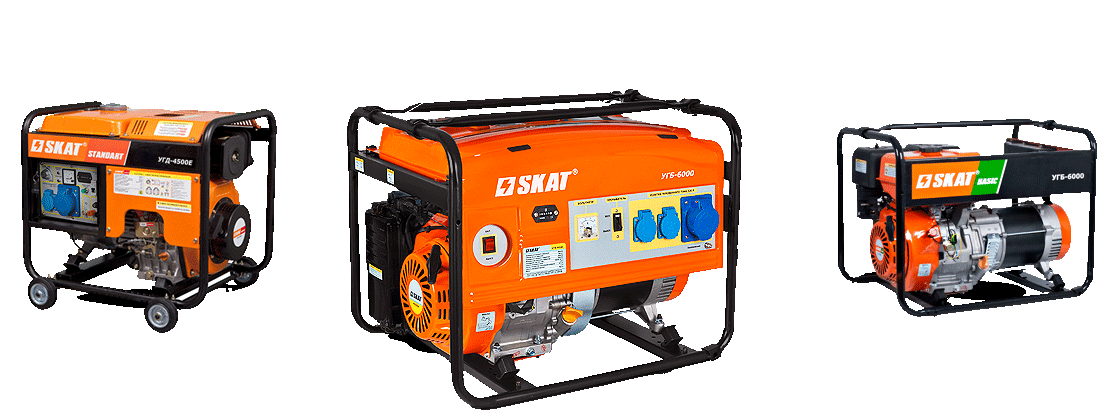
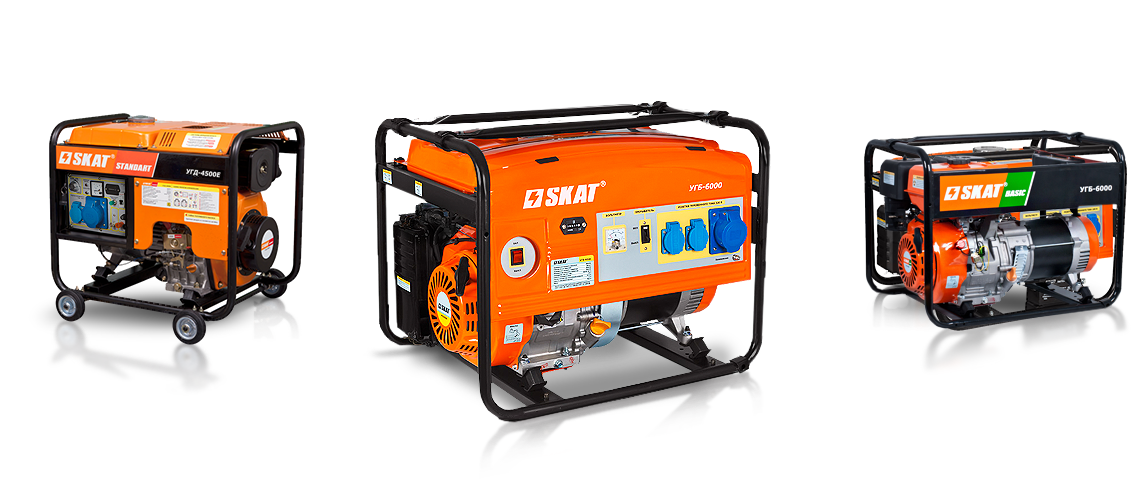
low

diff --git a/css/style.css b/css/style.css
@@ -193,7 +193,7 @@ orange{
 #top{
 	/*min-width: 1115px;*/
 	height: 1027px;
-	/*background-color: #F4F4F4;*/
+	background-color: #F4F4F4;
 	background-image: url("../img/bg-top.png");
 	background-position: center top;
 	background-repeat: no-repeat;
@@ -205,6 +205,7 @@ orange{
 	width: 1172px;
 	margin-right: auto;
 	margin-left: auto;
+	background-image: url("../img/bg-top.png");
 }
 
 .logo{
@@ -255,8 +256,8 @@ orange{
 }
 
 .gen{
-	width: 1105px;
-	height: 411px;
+	width: 1133px;
+	height: 489px;
 	margin-left: auto;
 	margin-right: auto;
 	background-image: url("../img/generators.png");

diff --git a/index.php b/index.php
@@ -25,32 +25,31 @@
 
 <body>
 	<div id="top">
-		<div class="top-main">
-			<div style="height: 120px;">
-				<a href="/">
-					<div class="logo"></div>
-				</a>
-				
-				<div class="phone">
-					<b>8-800-555-36-75</b>
-					<a href="http://www.skatpower.ru/">http://wwww.skatpower.ru</a>
-				</div>
-			</div>
-			<div class="centered" style="margin-top: 51px;">
-				<div class="title-text"><b>Надежные и практичные</b><br>генераторы Skat 6 квт</div>
-				
-				<div style="height: 100px; margin-top: -90px;">
-					<a href="http://www.skatpower.ru/shops.html">
-						<div class="button-dill"></div>
+		<div class="top-bg">
+			<div class="top-main">
+				<div style="height: 120px;">
+					<a href="/">
+						<div class="logo"></div>
 					</a>
+					
+					<div class="phone">
+						<b>8-800-555-36-75</b>
+						<a href="http://www.skatpower.ru/">http://wwww.skatpower.ru</a>
+					</div>
 				</div>
-
-			</div>
-			<div class="gen" ></div>
-			<div class="button-top">
-				
-
-				<a href="#compare"><b>посмотреть линейку 6 кВт генераторов</b></a>
+				<div class="centered" style="margin-top: 51px;">
+					<div class="title-text"><b>Надежные и практичные</b><br>генераторы Skat 6 квт</div>
+					
+					<div style="height: 100px; margin-top: -90px;">
+						<a href="http://www.skatpower.ru/shops.html">
+							<div class="button-dill"></div>
+						</a>
+					</div>
+				</div>
+				<div class="gen" ></div>
+				<div class="button-top">
+					<a href="#compare"><b>посмотреть линейку 6 кВт генераторов</b></a>
+				</div>
 			</div>
 		</div>
 	</div>
